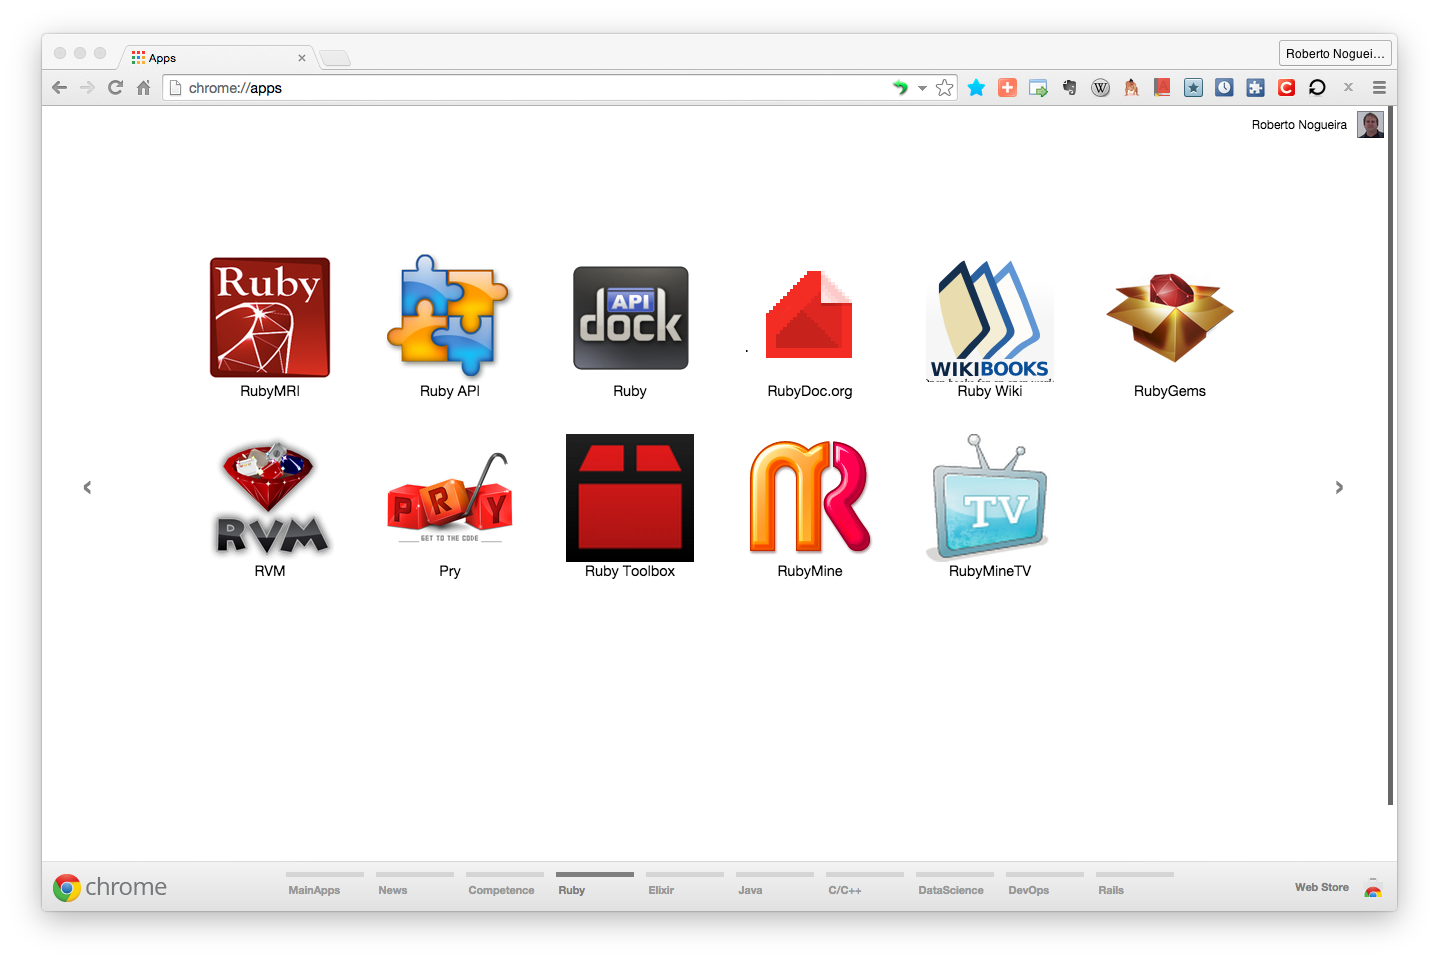
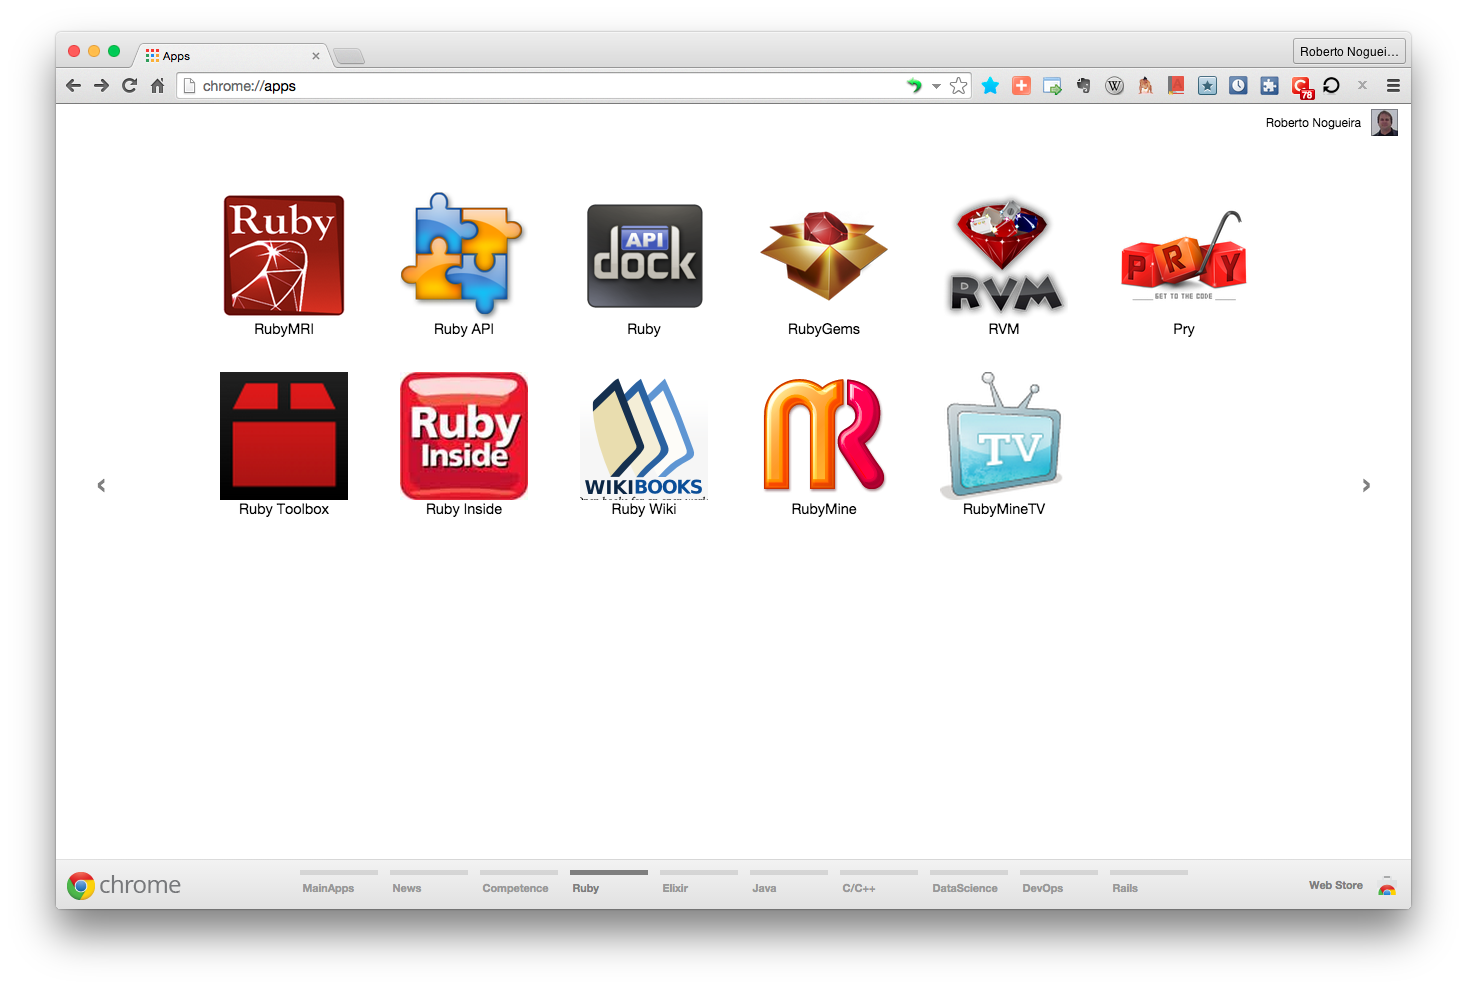
ChromeApps_Ruby updated

diff --git a/README.md b/README.md
@@ -27,25 +27,14 @@ ChromeApps_Ruby
 ├── Ruby-API
 ├── Ruby-APIdock
 ├── Ruby-Homepage
-├── Ruby-IronRuby
-├── Ruby-MacRuby
-├── Ruby-MagLev
-├── Ruby-MobiRuby
-├── Ruby-Opal
 ├── Ruby-Pry
 ├── Ruby-RVM
-├── Ruby-Rubinius
-├── Ruby-Ruboto
-├── Ruby-Rubular
-├── Ruby-RubyDoc.org
-├── Ruby-RubyFLOW
 ├── Ruby-RubyGems
 ├── Ruby-RubyInside
 ├── Ruby-RubyMine
 ├── Ruby-RubyMineTV
 ├── Ruby-Toolbox
 ├── Ruby-Wiki
-├── Ruby-mruby
 └── images
 
 23 directories, 1 file
